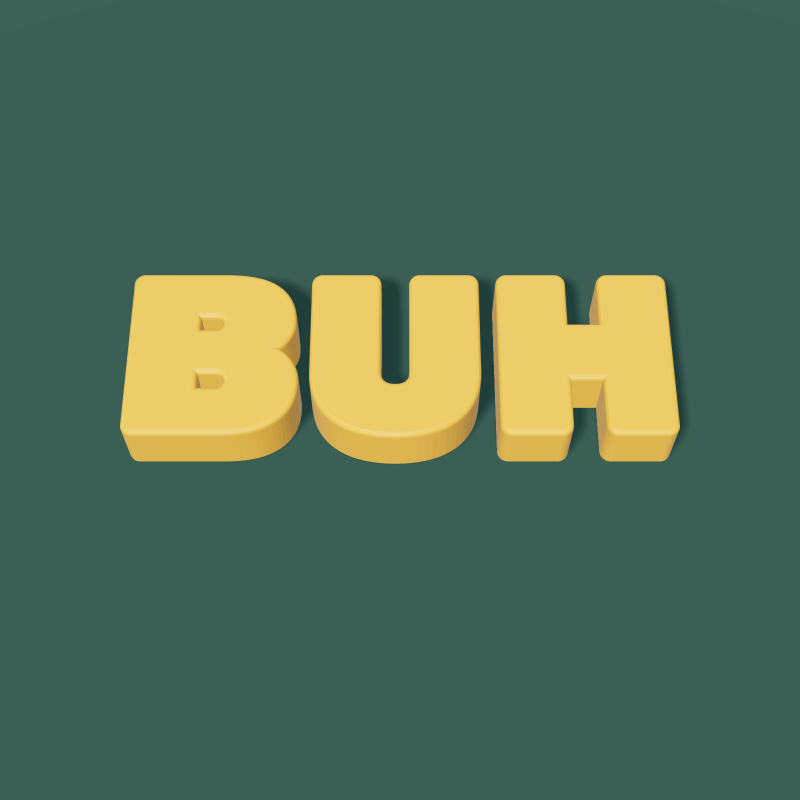
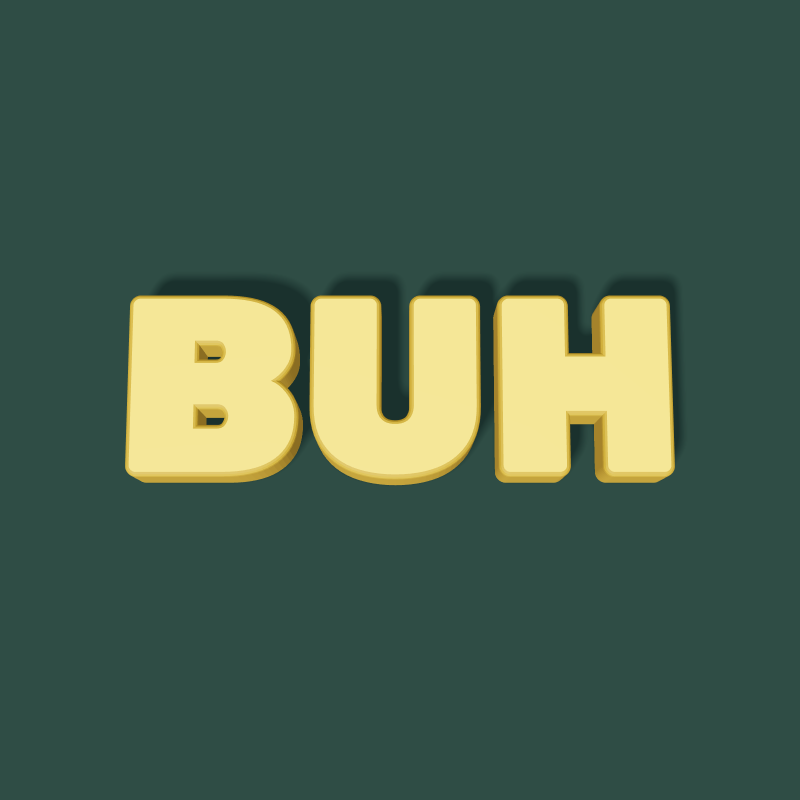
Statement text: overhead camera, bright faces + dark sides, darker floor, level push-in (no orbit)
Claude-Session: https://claude.ai/code/session_019n1tKHhtdH9WqRqey5bGkj

Changed region(s): [[0.125, 0.3438, 0.875, 0.625]]

diff --git a/episodes/exploding-kittens/web/scenes.js b/episodes/exploding-kittens/web/scenes.js
@@ -327,7 +327,10 @@ async function rubikFont() {
 }
 
 SCENES.statement = async (stage, spec) => {
-  buildRoom(stage);
+  const room = buildRoom(stage);
+  if (room.floor) room.floor.material.color.multiplyScalar(0.72);   // darker floor behind text
+  stage.scene.background = new THREE.Color(stage.scene.background).multiplyScalar(0.72);
+  if (stage.scene.fog) stage.scene.fog.color.multiplyScalar(0.72);
   const font = await rubikFont();
   const lines = spec.lines;              // [{text, at, color}]
   const size = spec.params.size || 1.0, gapY = size * 1.45, maxW = spec.params.max_width || 13;
@@ -337,9 +340,12 @@ SCENES.statement = async (stage, spec) => {
     geo.computeBoundingBox(); const bb = geo.boundingBox;
     geo.translate(-(bb.max.x + bb.min.x) / 2, 0, 0);
     const w = bb.max.x - bb.min.x;
-    const col = ln.color ? (NAMED[ln.color] || ln.color) : '#fbf7ef';
-    const mat = new THREE.MeshPhysicalMaterial({ color: col, roughness: 0.35, clearcoat: 0.4, transparent: true, opacity: 0 });
-    const m = new THREE.Mesh(geo, mat); m.castShadow = true;
+    const col = new THREE.Color(ln.color === 'MUSTARD' ? '#ffcc33' : ln.color === 'CORAL' ? '#ff7a63' : ln.color ? (NAMED[ln.color] || ln.color) : '#ffffff');
+    // bright, slightly self-lit faces + darker sides = crisp letter edges on the floor
+    const face = new THREE.MeshStandardMaterial({ color: col, emissive: col, emissiveIntensity: 0.55, roughness: 0.5, transparent: true, opacity: 0 });
+    const side = new THREE.MeshStandardMaterial({ color: col.clone().multiplyScalar(0.55), roughness: 0.6, transparent: true, opacity: 0 });
+    const m = new THREE.Mesh(geo, [face, side]); m.castShadow = true;
+    m.material.opacity = 0;
     const s = Math.min(ln.scale || 1, maxW / w); m.scale.set(s, s, s);
     const z0 = (k - (lines.length - 1) / 2) * gapY;     // lines lie on the floor, first line farthest
     m.rotation.x = -Math.PI / 2;
@@ -350,14 +356,14 @@ SCENES.statement = async (stage, spec) => {
   return (t) => {
     for (const m of meshes) {
       const k = ease((t - m.userData.at) / 0.45);
-      m.material.opacity = k;
+      m.material.forEach((mt) => (mt.opacity = k));
       m.position.set(0, (1 - k) * 1.4, m.userData.z0 + size * 0.5);   // drops onto the floor
       m.rotation.x = -Math.PI / 2 + (1 - k) * 0.25;
     }
-    const a = spec.params.static ? 0 : lerp(-0.18, 0.18, clamp(t / stage.duration));
-    const R = 8.5;
-    stage.camera.position.set(Math.sin(a) * R, 15.5, Math.cos(a) * R);
-    stage.camera.lookAt(0, 0, 0.3);
+    // level text, gentle push-in (no orbit: rotating an overhead camera tilts the words)
+    const k = spec.params.static ? 0 : ease(clamp(t / stage.duration));
+    stage.camera.position.set(0, lerp(17.5, 15.8, k), 2.9);
+    stage.camera.lookAt(0, 0, 0.1);
     scrim(stage, t);
   };
 };
